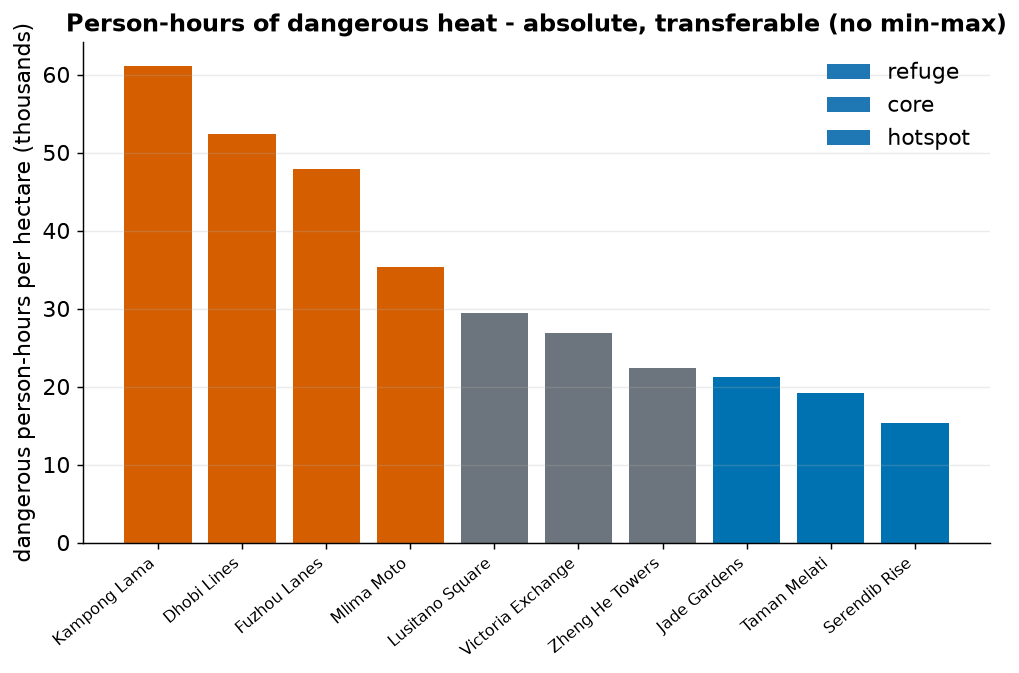
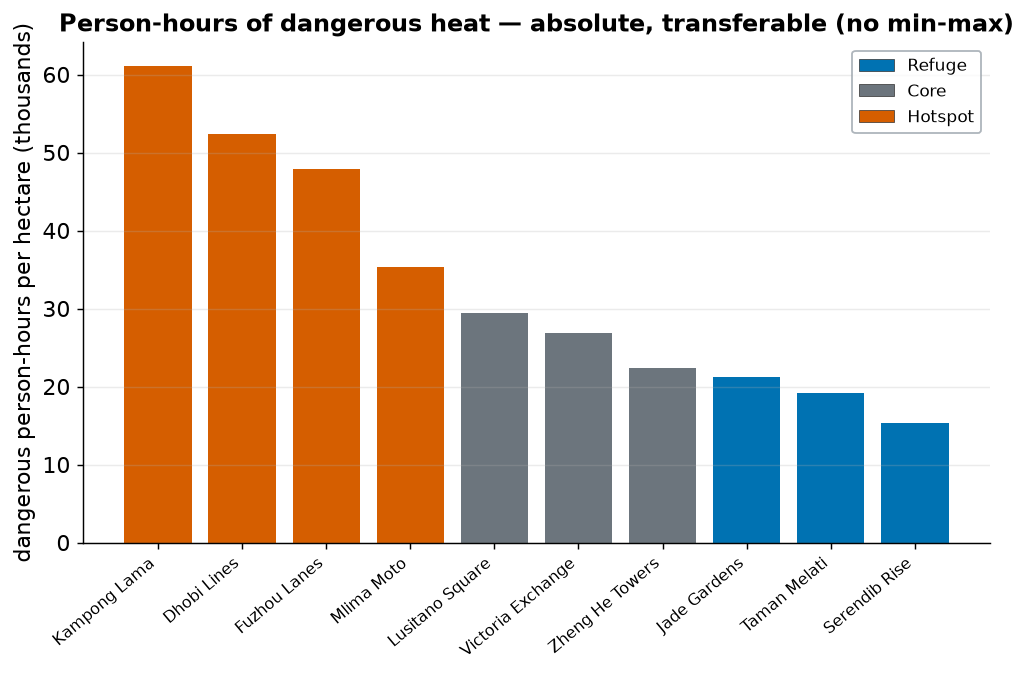
Fix fig9 + fig13 legend bug (empty-bar handles showed all-blue); use Patch swatches with correct colours, capitalised, boxed (img ?v=2)

diff --git a/docs/deeper-analysis.html b/docs/deeper-analysis.html
@@ -71,7 +71,7 @@
      cities. <strong>Person-hours of dangerous heat = dangerous hours × exposed population</strong> is
      absolute and transferable — it directly answers the relativity weakness flagged on the main page.</p>
   <figure>
-    <img src="figs/fig9_person_hours.png" alt="Bar chart of dangerous person-hours per hectare; the three informal hotspots are far above the cores and refuges.">
+    <img src="figs/fig9_person_hours.png?v=2" alt="Bar chart of dangerous person-hours per hectare; the three informal hotspots are far above the cores and refuges.">
     <figcaption>Dangerous person-hours per hectare (daytime + nighttime). Kampong Lama tops at ~61,000 —
       and unlike the index, this number is a real quantity you could compare to another city.</figcaption>
   </figure>
@@ -149,7 +149,7 @@
   <p class="lede">Person-hours weighted by <em>who</em> is exposed: dangerous person-hours × the vulnerable
      fraction (elderly, children, no-AC, outdoor workers, deprivation).</p>
   <figure>
-    <img src="figs/fig13_vulnerable.png" alt="Vulnerable person-hours per hectare; the three informal hotspots dominate, far above refuges and cores.">
+    <img src="figs/fig13_vulnerable.png?v=2" alt="Vulnerable person-hours per hectare; the three informal hotspots dominate, far above refuges and cores.">
     <figcaption>Vulnerable person-hours per hectare. The informal settlements dominate (Kampong Lama ~6,450) —
       and the hot-but-empty refuges fall away once the vulnerable <em>fraction</em> (0.29 vs ~0.51) is applied.</figcaption>
   </figure>

diff --git a/scripts/extensions.py b/scripts/extensions.py
@@ -209,9 +209,12 @@ def _figures(DN, decomp, dose, band):
     ax.set_xticks(x); ax.set_xticklabels(D2.name, rotation=40, ha="right", fontsize=9)
     ax.set_ylabel("dangerous person-hours per hectare (thousands)")
     ax.set_title("Person-hours of dangerous heat - absolute, transferable (no min-max)")
-    for t, c in TCOL.items():
-        ax.bar([], [], color=c, label=t)
-    ax.legend(frameon=False); ax.grid(alpha=.25, axis="y")
+    from matplotlib.patches import Patch
+    h = [Patch(facecolor=TCOL[t], edgecolor="#333", linewidth=.4, label=t.capitalize())
+         for t in ("refuge", "core", "hotspot")]
+    leg = ax.legend(handles=h, loc="upper right", frameon=True, fontsize=9.5)
+    leg.get_frame().set_edgecolor("#9aa3ab"); leg.get_frame().set_linewidth(1.0)
+    ax.grid(alpha=.25, axis="y")
     fig.savefig(FIGS / "fig9_person_hours.png"); plt.close(fig)
 
     # FIG 10 - intervention decomposition

diff --git a/scripts/extensions2.py b/scripts/extensions2.py
@@ -165,8 +165,12 @@ def _figures(opt, B, C, D, slope, intercept, r2):
     ax.set_xticks(x); ax.set_xticklabels(D2.name, rotation=40, ha="right", fontsize=9)
     ax.set_ylabel("vulnerable person-hours per ha (thousands)")
     ax.set_title("Headcount of harm: vulnerable person-hours of dangerous heat")
-    for t,c in TCOL.items(): ax.bar([],[],color=c,label=t)
-    ax.legend(frameon=False); ax.grid(alpha=.25, axis="y")
+    from matplotlib.patches import Patch
+    h = [Patch(facecolor=TCOL[t], edgecolor="#333", linewidth=.4, label=t.capitalize())
+         for t in ("refuge", "core", "hotspot")]
+    leg = ax.legend(handles=h, loc="upper right", frameon=True, fontsize=9.5)
+    leg.get_frame().set_edgecolor("#9aa3ab"); leg.get_frame().set_linewidth(1.0)
+    ax.grid(alpha=.25, axis="y")
     fig.savefig(FIGS/"fig13_vulnerable.png"); plt.close(fig)
 
     # FIG 14 - roughness -> heat regression (leader-line labels; boxed legend)